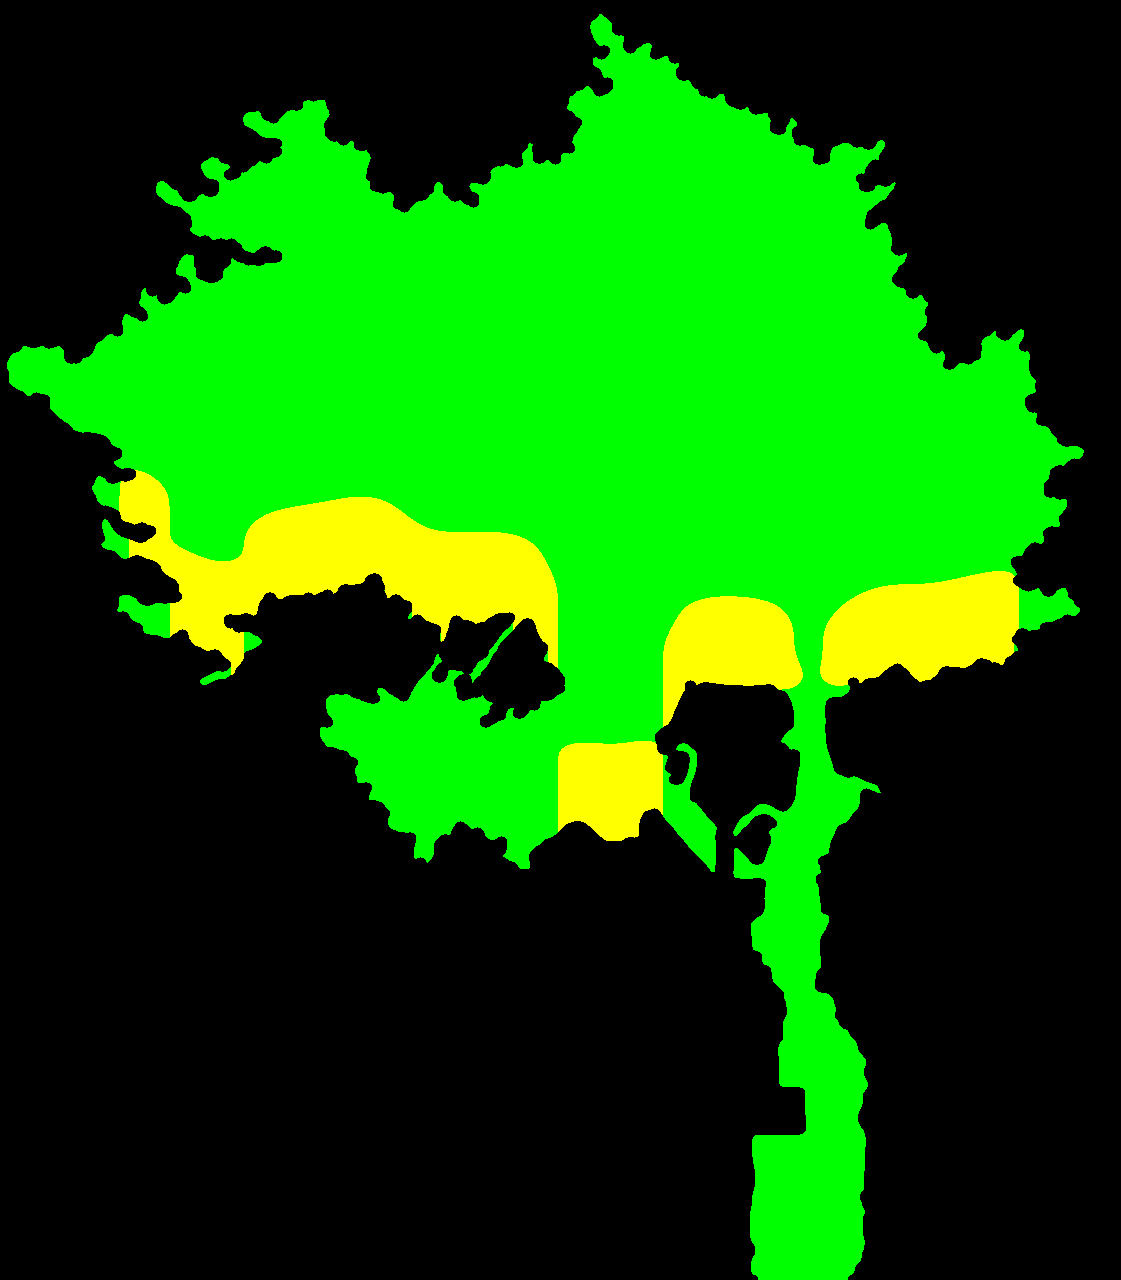
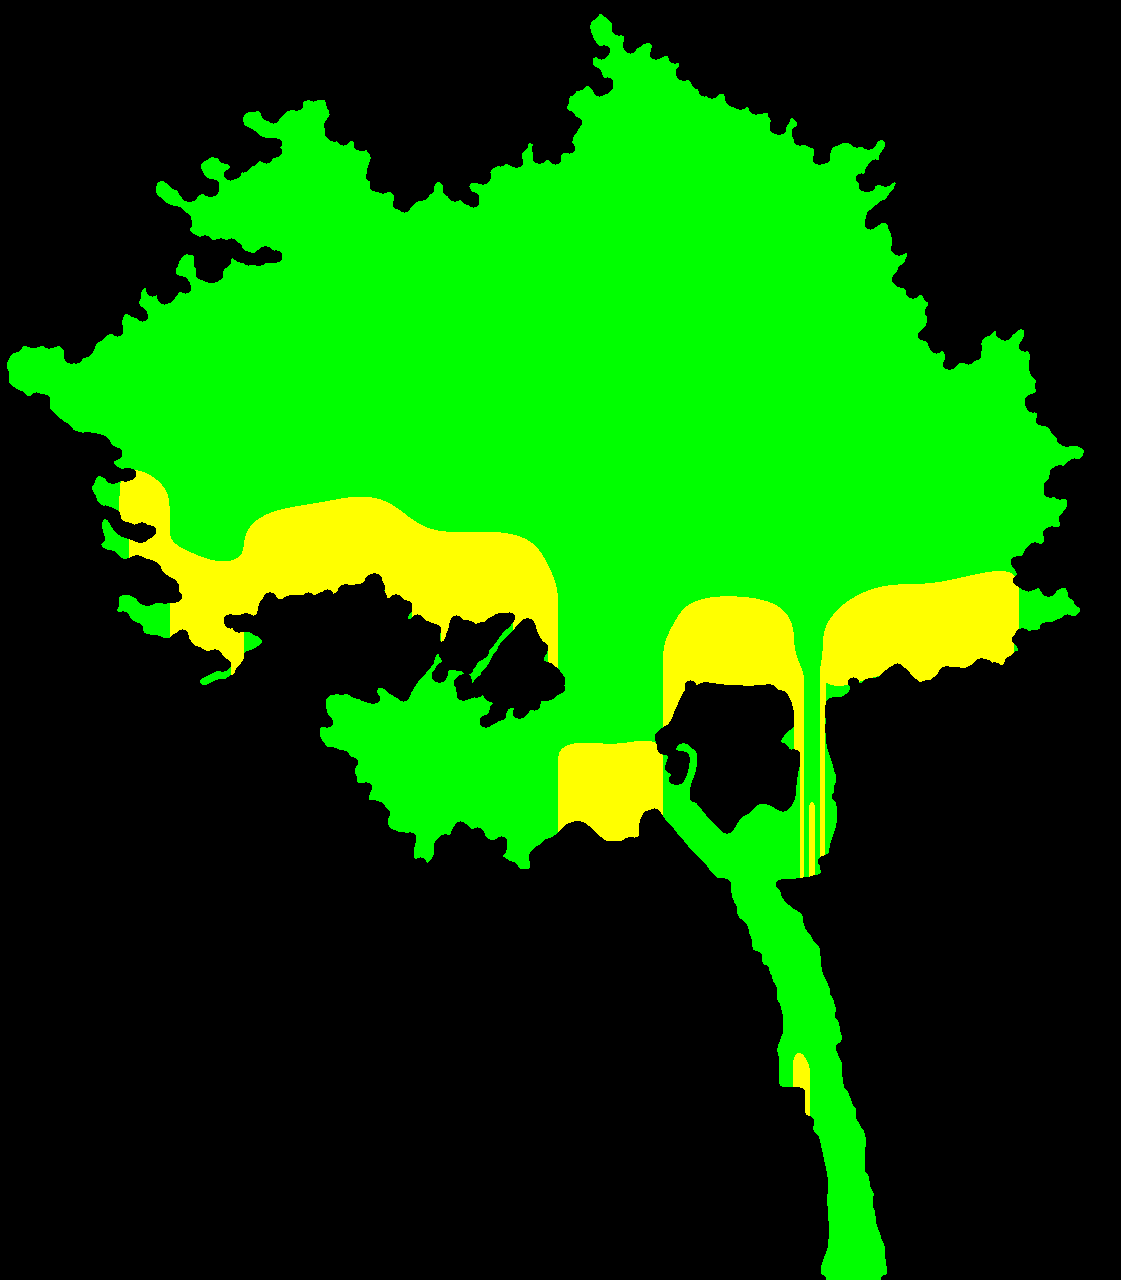
Drop pine 656 from the trees after its cut-out read as plainly wrong
On the wall's default screen the designer saw the dark stand-in tree
and said its cut-out was obviously wrong. It was pine 656: its trunk
leans from the horizon down to the base (centre 0.573 to 0.627 of the
photo width), but it had been cut with an upright band (0.60, half
width 0.04). The band's left half caught the road and a hanging branch,
so a square step stuck to the base. Above the horizon, wall and glass
of the building behind the fork were also taken for tree.

Re-cut with the band along the trunk (0.573 to 0.627, half width 0.03)
and the building moved out with two erase boxes, the base came clean
on the wall. The designer then chose to drop 656 anyway, the same way
071 left: trees.json marks it dropped, export.py skips it, and the
entry is gone from treePhoto.data.ts. The re-cut alpha, its app image
and its settings in alpha.py stay as material, so bringing it back uses
the clean cut. Only 656's lines changed; the other tree images are
byte-identical, and the hand-written note about 071 in
treePhoto.data.ts is kept.

The app now has three pines (764, 223, 055) and two willows. 200 texts
x three weights x the three shapes all still find a tree (max 9 ms).
tsc and build pass.

Not done: the wall's three stand-in trees all pick pine 764 now (one
of them used 656), so with no text trees they repeat one shape.

Changed region(s): [[0.6244, 0.5312, 0.7806, 0.7812], [0.6557, 0.8125, 0.8118, 1.0], [0.6869, 0.8125, 0.7181, 0.8438]]

diff --git a/src/lib/treePhoto.data.ts b/src/lib/treePhoto.data.ts
@@ -11,6 +11,7 @@ export interface TreeShape {
 }
 
 // 소나무 071(정이품송)은 2026-10-04에 뺐다(디자이너 — 미리보기마다 나와 거슬렸다). 원판은 design/tree-photo에 그대로, trees.json의 dropped
+// 소나무 656은 2026-10-04에 뺐다(디자이너 — 누끼가 잘못 따져 밑동에 네모 턱이 붙었다. 다시 뗀 판은 design/tree-photo/alpha에, trees.json의 dropped)
 export const TREE_PHOTOS: readonly TreeShape[] = [
   { id: 'pine-764', species: 'pine', drape: false, gw: 192, gh: 160, cx: 87.58, cy: 57.35, crown: 109, trunk: 111, perch: [[62.5, 3.0], [48.5, 4.0], [122.5, 15.0]],
     img: new URL('../assets/trees/pine-764.png', import.meta.url).href,
@@ -20,10 +21,6 @@ export const TREE_PHOTOS: readonly TreeShape[] = [
     img: new URL('../assets/trees/pine-223.png', import.meta.url).href,
[2 lines of base64/hex data omitted]
-  { id: 'pine-656', species: 'pine', drape: false, gw: 140, gh: 160, cx: 71.82, cy: 57.22, crown: 104, trunk: 105, perch: [[74.5, 2.0], [38.5, 13.0], [91.5, 13.0]],
-    img: new URL('../assets/trees/pine-656.png', import.meta.url).href,
[2 lines of base64/hex data omitted]
   { id: 'pine-055', species: 'pine', drape: false, gw: 133, gh: 160, cx: 80.23, cy: 76.02, crown: 137, trunk: 139, perch: [[87.5, 1.0], [32.5, 26.0], [88.5, 2.0]],
     img: new URL('../assets/trees/pine-055.png', import.meta.url).href,
[1 lines of base64/hex data omitted]

diff --git a/scripts/trees/alpha.py b/scripts/trees/alpha.py
@@ -16,7 +16,10 @@ CFG = {
     'pine-764':   dict(h=0.66, g=0.85, t=(0.475, 0.47), tw=0.035, cut='v1'),
     'pine-071':   dict(h=0.56, g=0.76, t=(0.52, 0.52), tw=0.05),
     'pine-223':   dict(h=0.70, g=0.745, t=(0.30, 0.30), tw=0.03),
-    'pine-656':   dict(h=0.58, g=0.78, t=(0.60, 0.60), tw=0.04, cut='v1'),
+    # 소나무 656 — 2026-10-04 다시 뗐다(디자이너 "누가 봐도 누끼 잘못 땄다"). 줄기가 지평선에서 밑동으로 비스듬히 내려가는데 수직 띠
+    # (0.60 · 0.60, 반폭 0.04)로 떼어, 띠 왼쪽에 걸린 도로 · 늘어진 가지가 밑동에 네모 턱으로 붙었다 → 띠를 줄기 따라 0.573 → 0.627로
+    # 기울이고 반폭 0.03. 줄기 오른쪽 지평선 위 건물 벽 · 유리(갈래 사이로 보이던 것)는 erase로 비킨다 — 오른쪽 갈래는 0.618 안쪽이다
+    'pine-656':   dict(h=0.58, g=0.78, t=(0.573, 0.627), tw=0.03, cut='v1', side=(0.04, 0.84), erase=[(0.50, 0.58, 0.645, 1.0), (0.528, 0.58, 0.618, 0.645)]),
     'pine-055':   dict(h=0.585, g=0.64, t=(0.55, 0.545), tw=0.05, side=(0.0, 0.78), erase=[(0.45, 1.0, 0.735, 1.0)]),
     'willow-155': dict(h=0.72, g=0.97, t=(0.505, 0.50), tw=0.05),
     # 버드나무 17은 첫 판(지평선 없이 사진 전체를 하늘 · 나무로)에서 뗐다 — 이 길로 다시 떼면 조금 다를 수 있다
